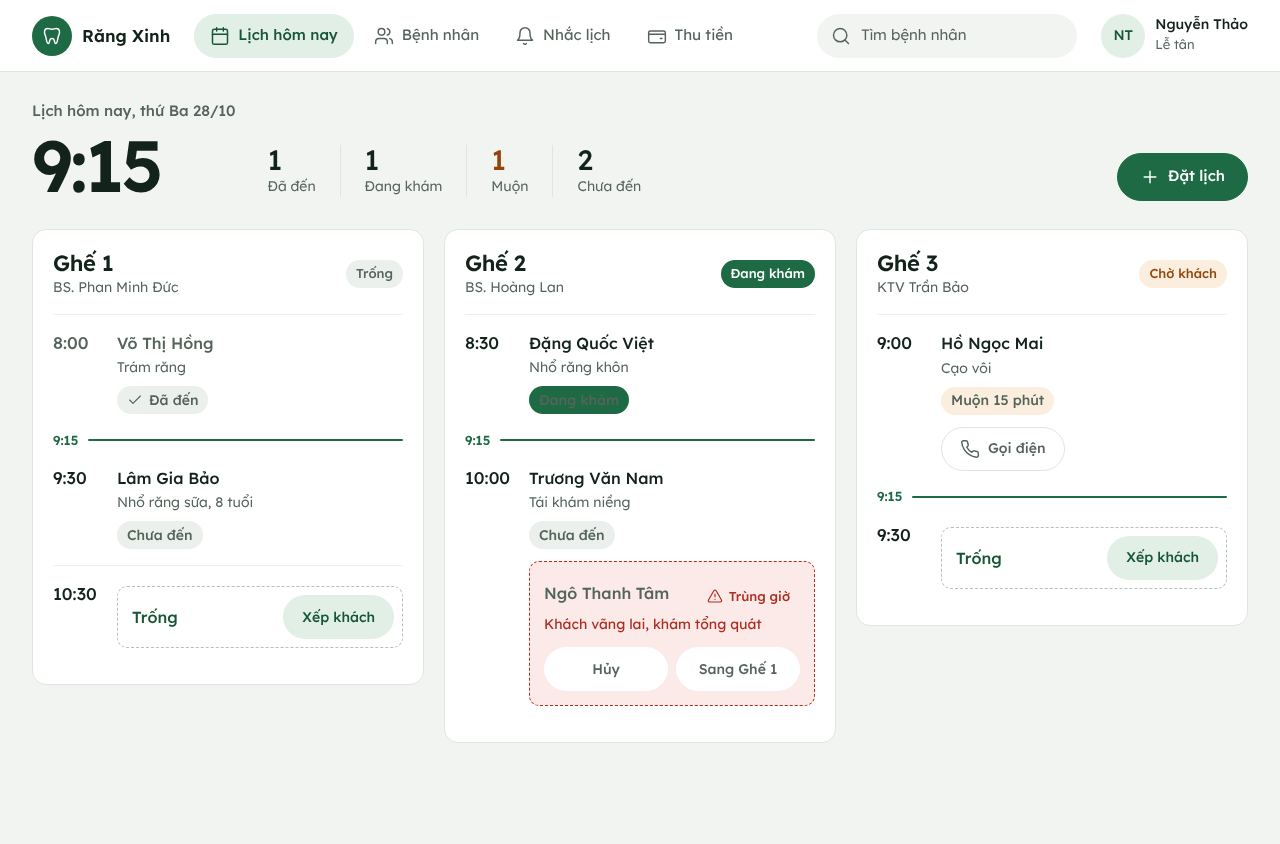
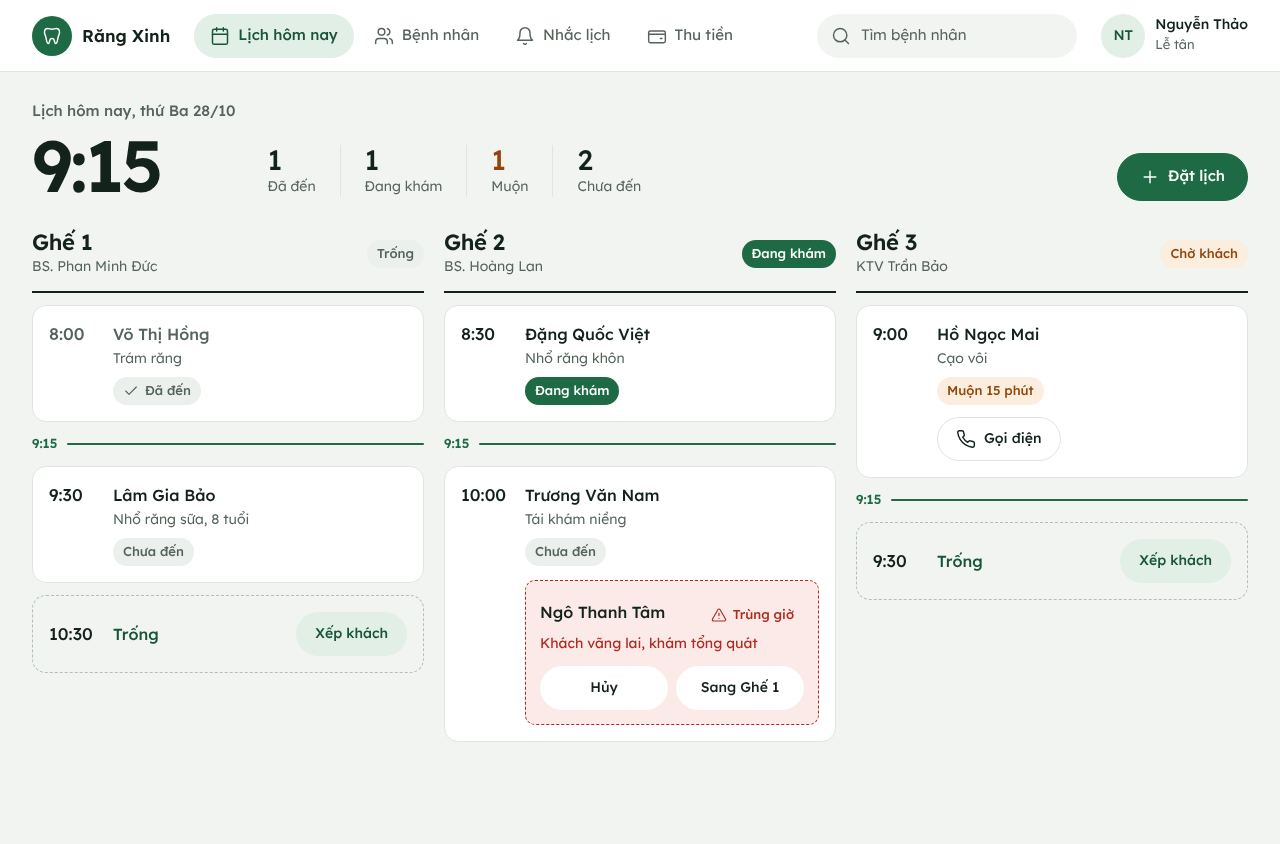
Beauty pairs: progress on 03 and 04
Claude-Session: https://claude.ai/code/session_01SboKA1Aqf6jkw3prwWvd7J

diff --git a/benchmarks/trials/2026-11-02-beauty/04-multi-role/c.html b/benchmarks/trials/2026-11-02-beauty/04-multi-role/c.html
@@ -53,8 +53,8 @@ main{padding:28px 32px 32px;max-width:1360px;margin:0 auto}
 .btn.ghost{border-color:transparent;background:var(--brand-soft);color:var(--brand-ink)}
 
 .lanes{display:grid;grid-template-columns:repeat(3,minmax(0,1fr));gap:20px;margin-top:28px;align-items:start}
-.lane{background:var(--surface);border-radius:var(--r);padding:20px;border:1px solid var(--line)}
-.lh{display:flex;align-items:center;gap:12px;padding-bottom:16px;border-bottom:1px solid var(--line-soft)}
+.lane{display:flex;flex-direction:column;gap:12px}
+.lh{display:flex;align-items:center;gap:12px;padding-bottom:12px;border-bottom:2px solid var(--ink);min-height:64px}
 .lh .w{flex:1;min-width:0}
 .lh h2{font-size:22px;font-weight:600;letter-spacing:-.02em;line-height:1.2}
 .lh .w span{font-size:14px;color:var(--muted)}
@@ -64,22 +64,22 @@ main{padding:28px 32px 32px;max-width:1360px;margin:0 auto}
 .chip.err{background:var(--err-bg);color:var(--err)}
 .chip svg{width:16px;height:16px}
 
-.v{display:grid;grid-template-columns:52px minmax(0,1fr);gap:12px;padding:16px 0;border-top:1px solid var(--line-soft)}
-.lh+.v{border-top:0}
+.v{display:grid;grid-template-columns:52px minmax(0,1fr);gap:12px;padding:16px;background:var(--surface);border-radius:var(--r);border:1px solid var(--line)}
+a.v:hover{border-color:#B9C8BE}
+.v.slot{background:none;border:1.5px dashed #AFC0B4;align-items:center}
 .v .t{font-size:17px;font-weight:500;line-height:1.4}
 .v .b{display:flex;flex-direction:column;gap:2px;min-width:0}
 .v .b b{font-size:16px}
-.v .b>span{font-size:14px;color:var(--muted)}
+.v .b .s{font-size:14px;color:var(--muted)}
 .v .chip{margin-top:6px;align-self:flex-start}
 .v.done .t,.v.done .b b{color:var(--muted)}
 .v .acts{display:flex;gap:8px;margin-top:10px;flex-wrap:wrap}
 .nowline{display:flex;align-items:center;gap:10px;color:var(--brand);font-size:13px;font-weight:600;height:20px}
 .nowline::after{content:"";flex:1;height:2px;background:var(--brand);border-radius:2px}
-.nowline+.v{border-top:0}
-.free{margin-top:4px;border:1.5px dashed #B3C2B8;border-radius:10px;padding:8px 8px 8px 14px;display:flex;align-items:center;justify-content:space-between;gap:8px}
+.free{display:flex;align-items:center;justify-content:space-between;gap:8px}
 .free b{font-size:15px;color:var(--brand-ink)}
-.clash{margin-top:10px;border:1.5px dashed var(--err);background:var(--err-bg);border-radius:10px;padding:14px;display:flex;flex-direction:column;gap:4px}
-.clash .hd{display:flex;align-items:center;justify-content:space-between;gap:8px}
+.clash{margin-top:12px;border:1.5px dashed var(--err);background:var(--err-bg);border-radius:10px;padding:14px;display:flex;flex-direction:column;gap:4px}
+.clash .hd{display:flex;align-items:center;justify-content:space-between;gap:8px;flex-wrap:wrap}
 .clash b{font-size:15px}
 .clash .msg{font-size:14px;color:var(--err);font-weight:400}
 .clash .acts{display:flex;gap:8px;margin-top:8px}
@@ -152,17 +152,17 @@ main{padding:28px 32px 32px;max-width:1360px;margin:0 auto}
     <div class="lanes">
       <section class="lane" aria-label="Ghế 1">
         <div class="lh"><div class="w"><h2>Ghế 1</h2><span>BS. Phan Minh Đức</span></div><span class="chip">Trống</span></div>
-        <a class="v done" href="#bn-vo-thi-hong"><span class="t">8:00</span><span class="b"><b>Võ Thị Hồng</b><span>Trám răng</span><span class="chip"><svg class="i"><use href="#check"/></svg>Đã đến</span></span></a>
+        <a class="v done" href="#bn-vo-thi-hong"><span class="t">8:00</span><span class="b"><b>Võ Thị Hồng</b><span class="s">Trám răng</span><span class="chip"><svg class="i"><use href="#check"/></svg>Đã đến</span></span></a>
         <div class="nowline">9:15</div>
-        <a class="v" href="#bn-lam-gia-bao"><span class="t">9:30</span><span class="b"><b>Lâm Gia Bảo</b><span>Nhổ răng sữa, 8 tuổi</span><span class="chip">Chưa đến</span></span></a>
-        <div class="v"><span class="t">10:30</span><span class="b"><span class="free"><b>Trống</b><a class="btn ghost" href="#dat-lich">Xếp khách</a></span></span></div>
+        <a class="v" href="#bn-lam-gia-bao"><span class="t">9:30</span><span class="b"><b>Lâm Gia Bảo</b><span class="s">Nhổ răng sữa, 8 tuổi</span><span class="chip">Chưa đến</span></span></a>
+        <div class="v slot"><span class="t">10:30</span><span class="b"><span class="free"><b>Trống</b><a class="btn ghost" href="#dat-lich">Xếp khách</a></span></span></div>
       </section>
 
       <section class="lane" aria-label="Ghế 2">
         <div class="lh"><div class="w"><h2>Ghế 2</h2><span>BS. Hoàng Lan</span></div><span class="chip busy">Đang khám</span></div>
-        <a class="v" href="#bn-dang-quoc-viet"><span class="t">8:30</span><span class="b"><b>Đặng Quốc Việt</b><span>Nhổ răng khôn</span><span class="chip busy">Đang khám</span></span></a>
+        <a class="v" href="#bn-dang-quoc-viet"><span class="t">8:30</span><span class="b"><b>Đặng Quốc Việt</b><span class="s">Nhổ răng khôn</span><span class="chip busy">Đang khám</span></span></a>
         <div class="nowline">9:15</div>
-        <div class="v" id="dat-lich"><span class="t">10:00</span><span class="b"><b>Trương Văn Nam</b><span>Tái khám niềng</span><span class="chip">Chưa đến</span>
+        <div class="v" id="dat-lich"><span class="t">10:00</span><span class="b"><b>Trương Văn Nam</b><span class="s">Tái khám niềng</span><span class="chip">Chưa đến</span>
           <span class="clash" role="alert">
             <span class="hd"><b>Ngô Thanh Tâm</b><span class="chip err"><svg class="i"><use href="#alert"/></svg>Trùng giờ</span></span>
             <span class="msg">Khách vãng lai, khám tổng quát</span>
@@ -172,10 +172,10 @@ main{padding:28px 32px 32px;max-width:1360px;margin:0 auto}
 
       <section class="lane" aria-label="Ghế 3">
         <div class="lh"><div class="w"><h2>Ghế 3</h2><span>KTV Trần Bảo</span></div><span class="chip late">Chờ khách</span></div>
-        <div class="v"><span class="t">9:00</span><span class="b"><a href="#bn-ho-ngoc-mai"><b>Hồ Ngọc Mai</b></a><span>Cạo vôi</span><span class="chip late">Muộn 15 phút</span>
+        <div class="v"><span class="t">9:00</span><span class="b"><b>Hồ Ngọc Mai</b><span class="s">Cạo vôi</span><span class="chip late">Muộn 15 phút</span>
           <span class="acts"><a class="btn" href="#goi-ho-ngoc-mai"><svg class="i"><use href="#phone"/></svg>Gọi điện</a></span></span></div>
         <div class="nowline">9:15</div>
-        <div class="v"><span class="t">9:30</span><span class="b"><span class="free"><b>Trống</b><a class="btn ghost" href="#dat-lich">Xếp khách</a></span></span></div>
+        <div class="v slot"><span class="t">9:30</span><span class="b"><span class="free"><b>Trống</b><a class="btn ghost" href="#dat-lich">Xếp khách</a></span></span></div>
       </section>
     </div>
   </main>
